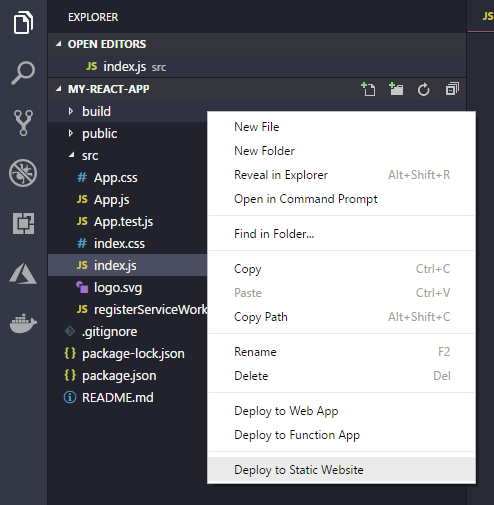
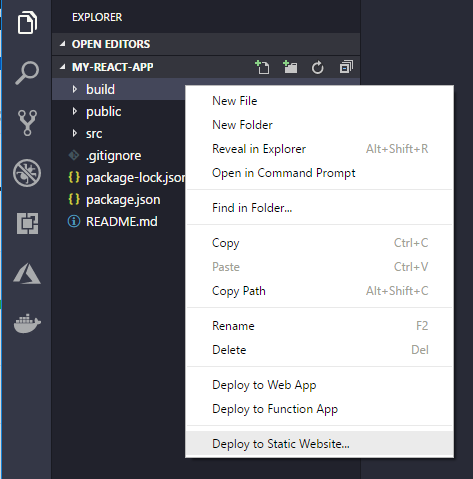
Update deployment screenshot.
Updated the dpeloyment screenshot to make it clear which item in the
file viewlet is selected.

Closes #1698

diff --git a/tutorials/static-website/deploy-website.md b/tutorials/static-website/deploy-website.md
@@ -12,7 +12,7 @@ In the **AZURE STORAGE** explorer, expand your subscription and find the Azure S
 
 ## Deploy your website
 
-1. Open your application code in VS Code, right-click on your **build** directory, and choose **Deploy to Static Website**.
+1. Open your application code in VS Code, right-click on your **build** directory, and choose **Deploy to Static Website...**.
 
     ![Deploy to Static Website](images/static-website/deploy-build.png)
 
